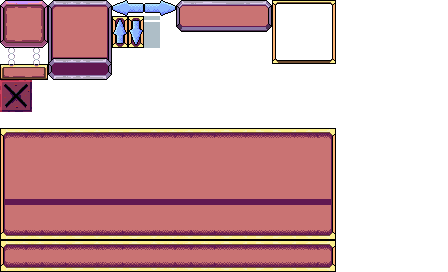
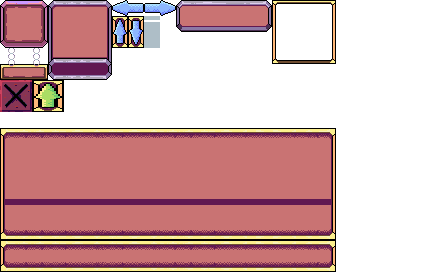
ditto

Changed region(s): [[0.0625, 0.2941, 0.1562, 0.4118]]

diff --git a/UIEngine/Classes/ButtonStuff/ConfirmationWindow.cs b/UIEngine/Classes/ButtonStuff/ConfirmationWindow.cs
@@ -1,6 +1,9 @@
-using Microsoft.Xna.Framework;
+using Globals.Classes.Helpers;
+using Microsoft.Xna.Framework;
 using Microsoft.Xna.Framework.Content;
 using Microsoft.Xna.Framework.Graphics;
+using SpriteEngine.Classes;
+using SpriteEngine.Classes.InterfaceStuff;
 using System;
 using System.Collections.Generic;
 using System.Linq;
@@ -11,11 +14,49 @@ namespace UIEngine.Classes.ButtonStuff
 {
     internal class ConfirmationWindow : InterfaceSection
     {
+
+        private Rectangle _backGroundSpriteDimensions = new Rectangle(0, 0, 80, 128);
+        private NineSliceSprite _backGroundSprite;
+
+        private Action _confirmAction;
+        private Action _cancelAction;
         private Button _confirmButton;
         private Button _cancelButton;
-        public ConfirmationWindow(InterfaceSection interfaceSection, GraphicsDevice graphicsDevice, ContentManager content, Vector2? position, float layerDepth, bool suppressParentSection = true) : base(interfaceSection, graphicsDevice, content, position, layerDepth, suppressParentSection)
+        /// <summary>
+        /// Default cancel action is to just close this window
+        /// </summary>
+        public ConfirmationWindow(InterfaceSection interfaceSection, GraphicsDevice graphicsDevice, ContentManager content, Vector2? position, float layerDepth, 
+            Action confirmAction, Action? cancelAction = null, bool suppressParentSection = true) : base(interfaceSection, graphicsDevice, content, position, layerDepth, suppressParentSection)
         {
-
+            _confirmAction = confirmAction;
+            _cancelAction = cancelAction ?? new Action(() => Close());
+            
         }
+        public override void LoadContent()
+        {
+            base.LoadContent();
+            Position = RectangleHelper.CenterRectangleOnScreen(_backGroundSpriteDimensions);
+            _backGroundSprite = SpriteFactory.CreateNineSliceSprite(Position, _backGroundSpriteDimensions.Width, _backGroundSpriteDimensions.Height,
+                UI.ButtonTexture, GetLayeringDepth(UILayeringDepths.Back));
+
+            Vector2 confirmButtonPos = RectangleHelper.CenterRectangleInRectangle(ButtonFactory.s_greenCheckRectangle, HitBox);
+            _confirmButton = new Button(this, graphics, content, confirmButtonPos, GetLayeringDepth(UILayeringDepths.Low), ButtonFactory.s_greenCheckRectangle, null, UI.ButtonTexture, null, _confirmAction);
+
+            Vector2 cancelButtonPos = RectangleHelper.CenterRectangleInRectangle(ButtonFactory.s_redExRectangle, HitBox);
+            _cancelButton = new Button(this, graphics, content, confirmButtonPos, GetLayeringDepth(UILayeringDepths.Low), ButtonFactory.s_redExRectangle, null, UI.ButtonTexture, null, _cancelAction);
+        }
+
+        public override void Update(GameTime gameTime)
+        {
+            base.Update(gameTime);
+
+            
+        }
+        public override void Draw(SpriteBatch spriteBatch)
+        {
+            base.Draw(spriteBatch);
+        }
+
+       
     }
 }

diff --git a/UIEngine/Classes/ButtonStuff/ButtonFactory.cs b/UIEngine/Classes/ButtonStuff/ButtonFactory.cs
@@ -13,16 +13,20 @@ namespace UIEngine.Classes.ButtonStuff
 {
     internal class ButtonFactory : Component
     {
+
+        public static readonly Rectangle s_redExRectangle = new Rectangle(0, 80, 32, 32);
+        public static readonly Rectangle s_greenCheckRectangle = new Rectangle(32, 80, 32, 32);
         public ButtonFactory(GraphicsDevice graphics, ContentManager content) : base(graphics, content)
         {
         }
 
         public Button CreateCloseButton(InterfaceSection section, Rectangle backGroundRectangleToPlaceOn, float layer)
         {
-            Rectangle redExRectangle = new Rectangle(0, 80, 32, 32);
-            Vector2 positionToPlace = RectangleHelper.PlaceRectangleAtTopRightOfParentRectangle(backGroundRectangleToPlaceOn, redExRectangle);
-            return new Button(section, graphics, content, positionToPlace, layer, redExRectangle,
+            Vector2 positionToPlace = RectangleHelper.PlaceRectangleAtTopRightOfParentRectangle(backGroundRectangleToPlaceOn, s_redExRectangle);
+            return new Button(section, graphics, content, positionToPlace, layer, s_redExRectangle,
                 null, UI.ButtonTexture, null, new Action(section.Close), scale: 1f);
         }
+
+      
     }
 }
